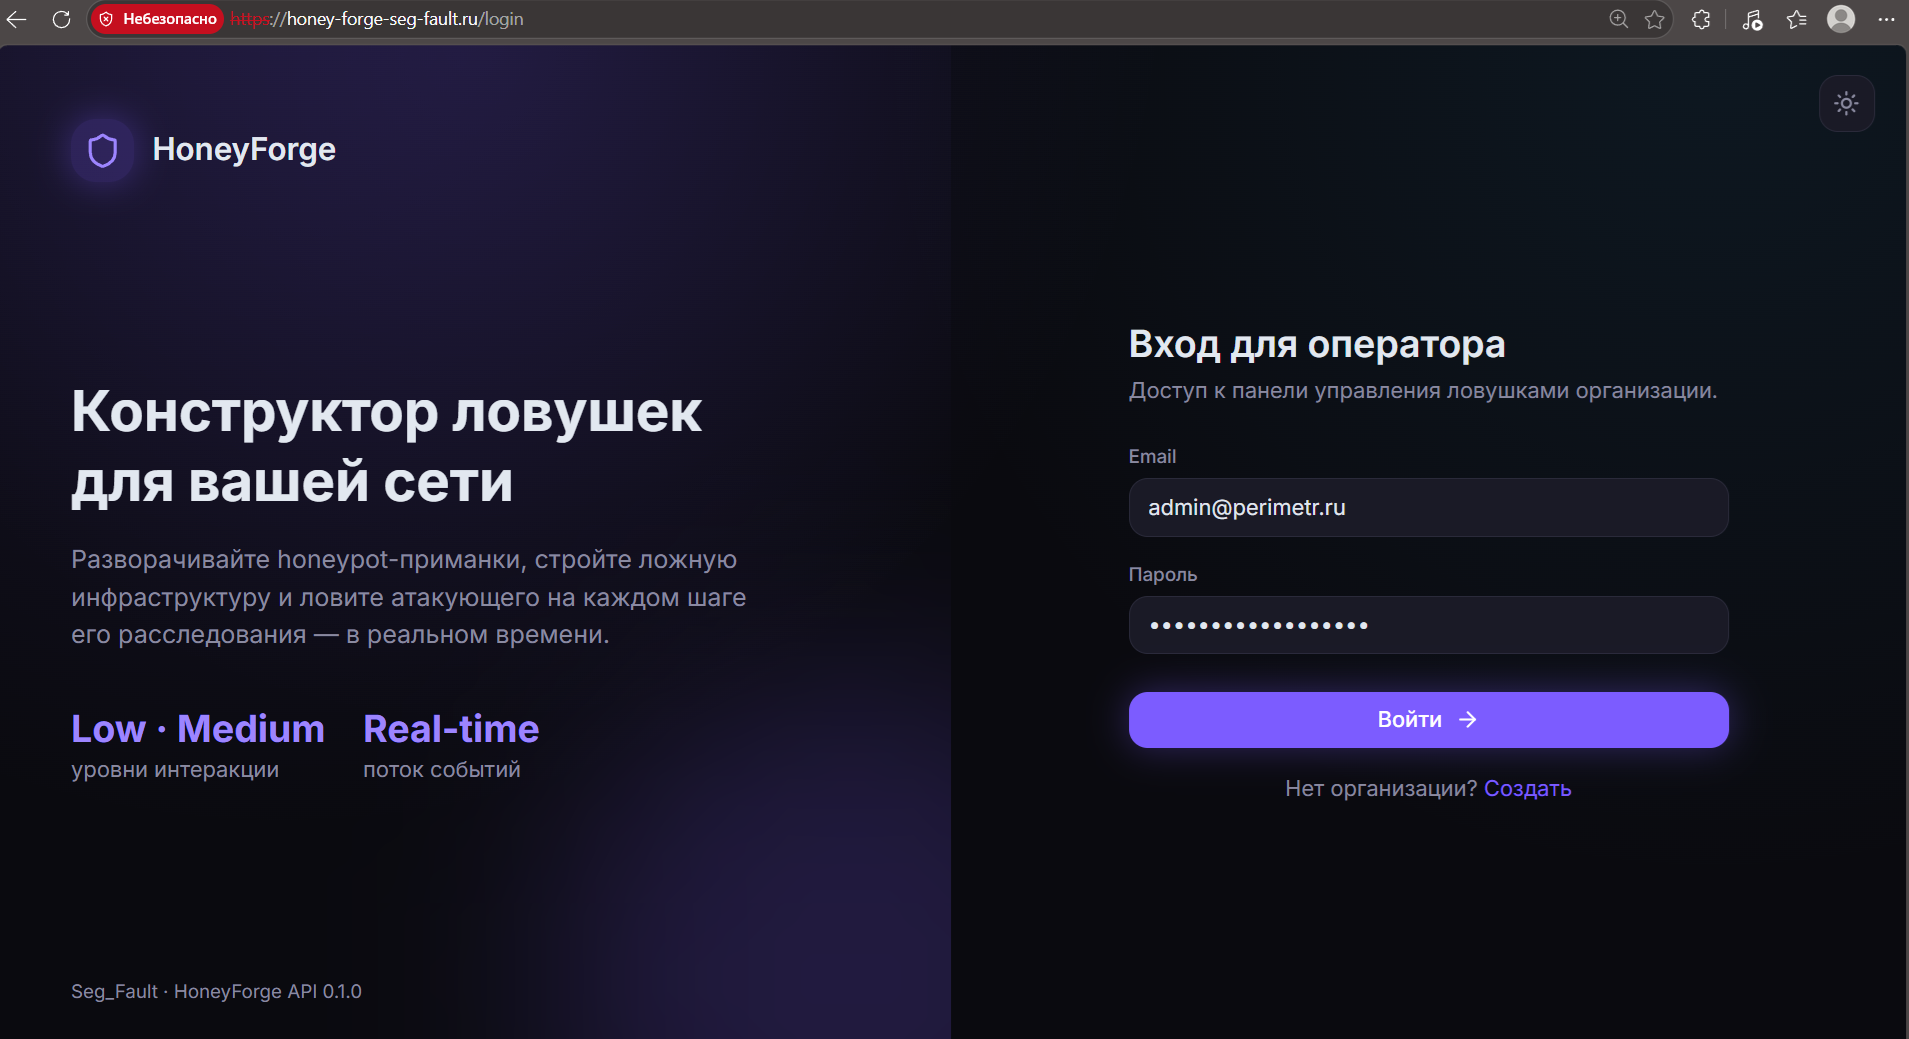
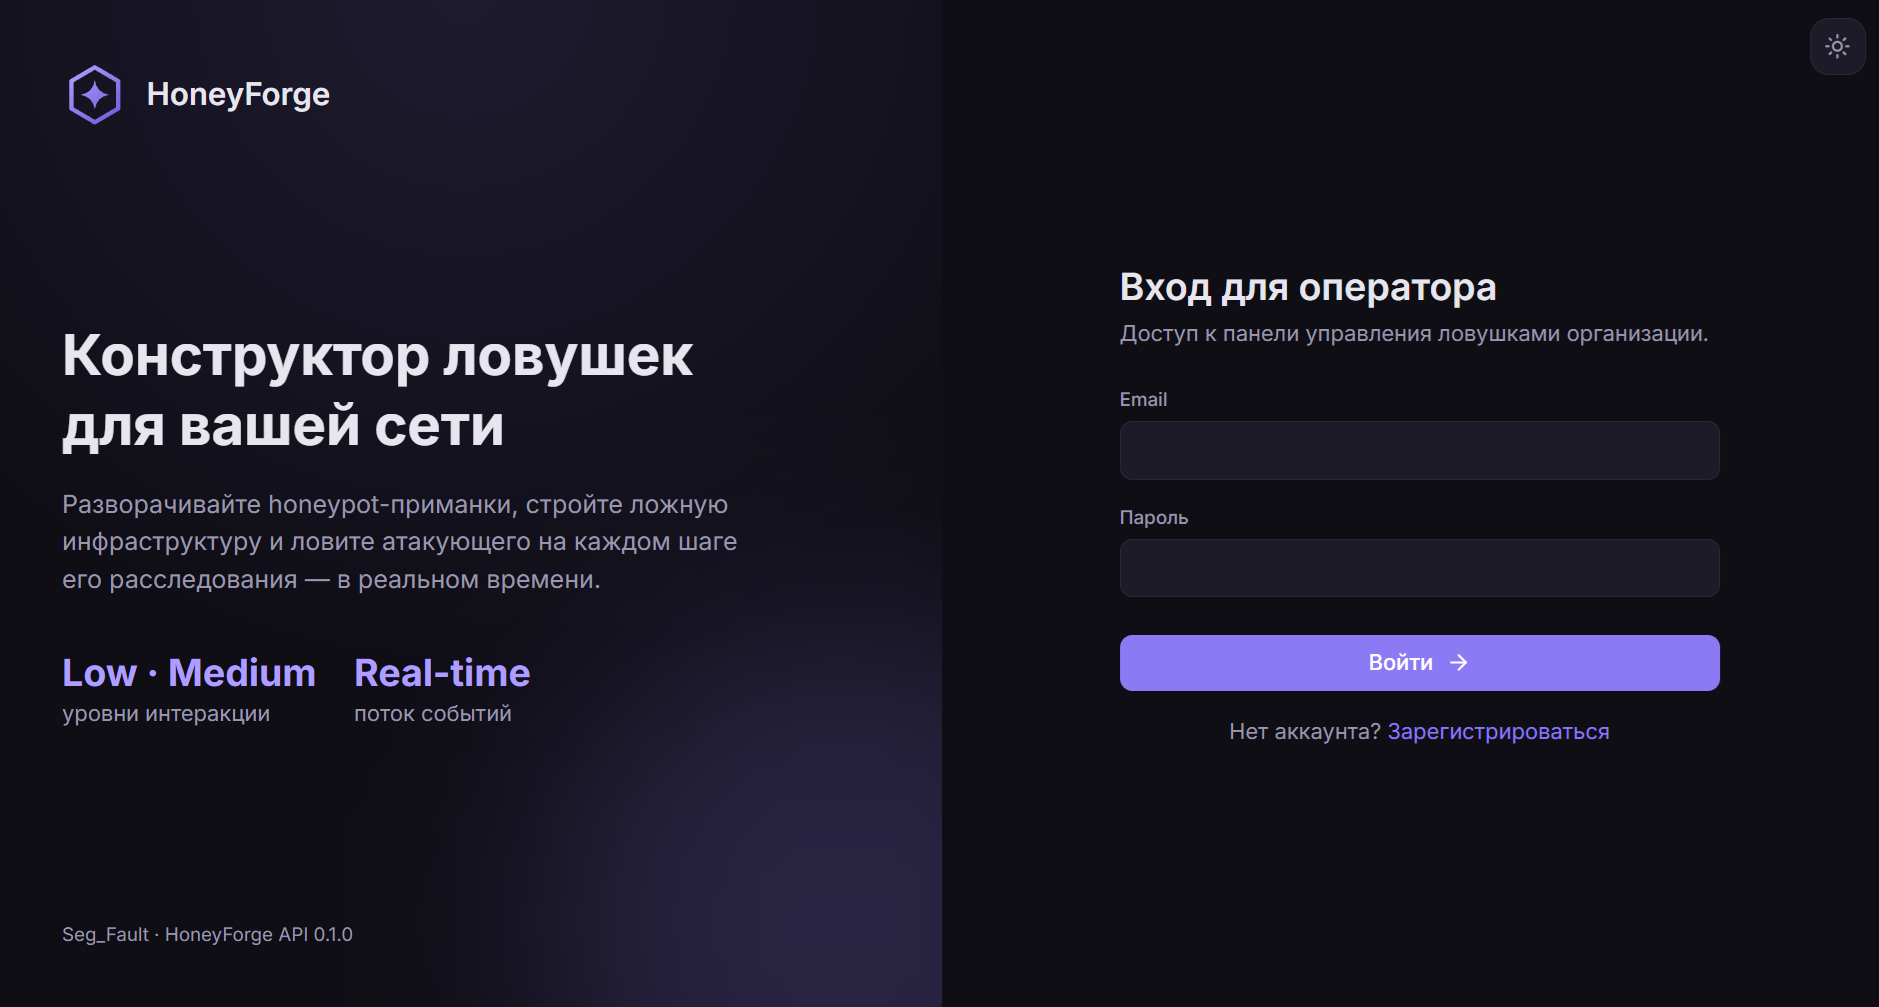
scrrenshooots

diff --git a/README.md b/README.md
@@ -1,5 +1,8 @@
 # HoneyForge
 
+![main_str](screenshots/honey-forge-main-page.png)
+---
+
 `HoneyForge` — Предварительный вариант веб-конструктора по графическому выстраиванию honey-spot ловушек для вашей компьютерной сети.
 
 #### Перед заходом на ресурс, в ОС Windows через powershell (от имени администратора) внесите изменения:
